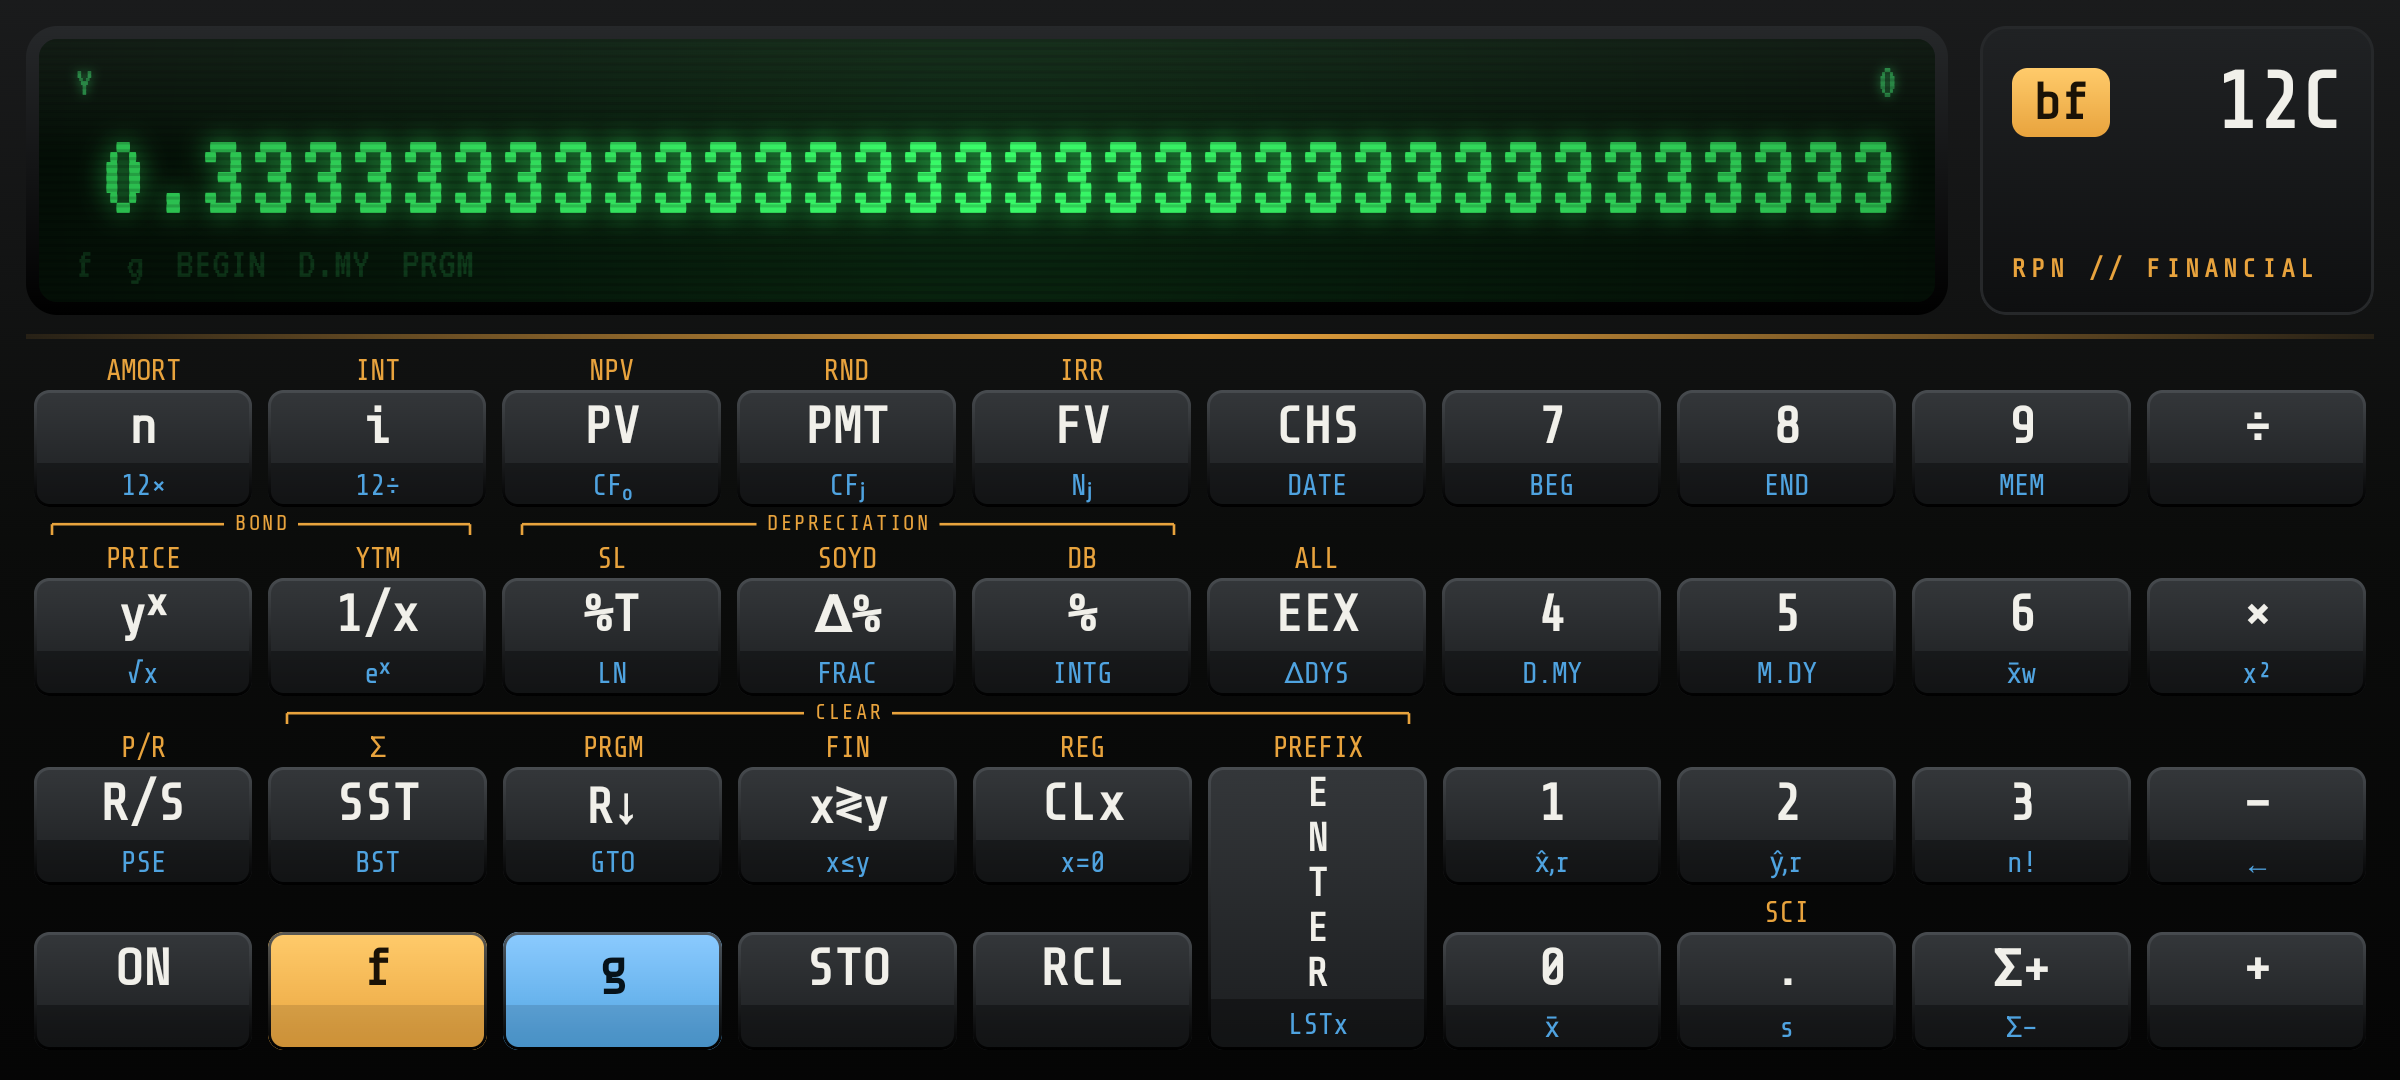
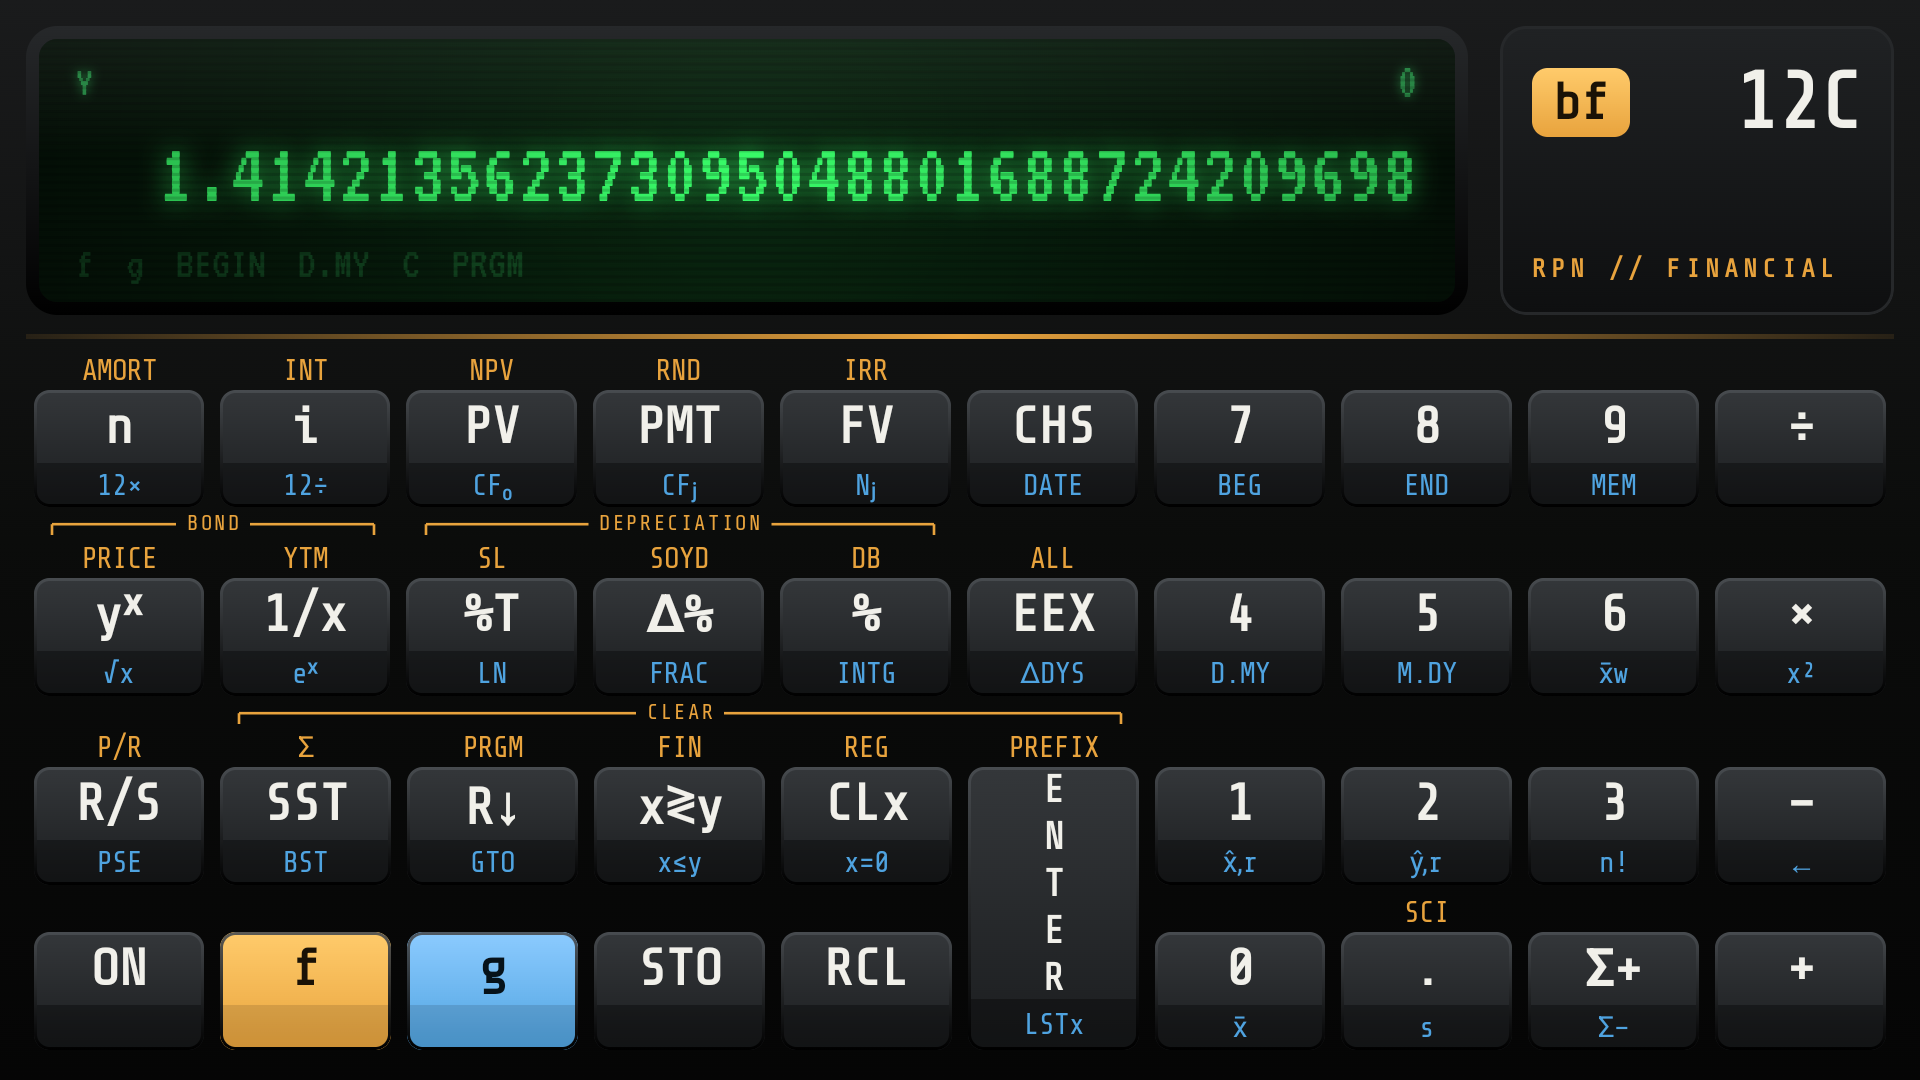
Recapture every store and README screenshot from the real app
tools/screenshots/shoot.py drives the installed debug build on an
emulator: it sets an exact 9:16 screen at each class's density, types
each scene on the calculator's own keys (found by their TalkBack
labels) and writes 24-bit PNGs.

- Phone (1080x1920 / 1920x1080, 420 dpi): a mortgage payment with its
  full-precision line, all 34 digits of the square root of 2, the f
  shift over an IRR, a sales-tax program listing in ICE, days until
  Christmas in P3 amber, the ON menu, and the 12C LCD.
- 7-inch (1224x2176 / 2176x1224, 320 dpi) and 10-inch (1620x2880 /
  2880x1620, 320 dpi) sets, four each, at real tablet window sizes so
  the tablet printing shows. They replace the deleted copies of the
  phone shots.
- docs/screenshots follow the phone set, plus a tablet shot.

AGENTS.md documents the command.

diff --git a/tools/screenshots/shoot.py b/tools/screenshots/shoot.py
@@ -1,0 +1,248 @@
+#!/usr/bin/env python3
+"""Captures the Play and README screenshots from the real app on an emulator.
+
+    ./gradlew assembleDebug
+    tools/screenshots/shoot.py SERIAL phone|tab7|tab10
+
+Boot an API 37 emulator first (see "Visual checks" in AGENTS.md). Any AVD
+without a display cutout works for every class, since the script sets the
+screen size and density itself; a cutout pads one side of landscape. Needs
+adb and ImageMagick.
+
+The script installs the debug APK, sizes the screen to an exact 9:16 at a
+real density for that class, types each scene on the calculator's own keys
+(found through their TalkBack labels) and writes 24-bit PNGs into
+fastlane/metadata/android/en-US/images/. `phone` and `tab10` also refresh
+the README shots in docs/screenshots/. It puts the screen size, density and
+rotation back when it is done.
+"""
+import os
+import re
+import shutil
+import subprocess
+import sys
+import time
+from pathlib import Path
+
+REPO = Path(__file__).resolve().parents[2]
+PKG = "com.bradflaugher.bf12c.debug"
+ACTIVITY = f"{PKG}/com.bradflaugher.bf12c.MainActivity"
+IMAGES = REPO / "fastlane/metadata/android/en-US/images"
+DOCS = REPO / "docs/screenshots"
+MAGICK = shutil.which("magick") or shutil.which("convert") or sys.exit("needs ImageMagick")
+ADB = shutil.which("adb") or os.path.join(
+    os.environ.get("ANDROID_HOME", os.path.expanduser("~/Android/Sdk")), "platform-tools", "adb"
+)
+
+# Portrait size (w x h, exactly 9:16) and density per Play category. The
+# density keeps each class's real window size in dp, so tablets get the
+# tablet layout: ~411dp phone, ~612dp 7-inch, 810dp 10-inch.
+DEVICES = {
+    "phone": ((1080, 1920), 420, IMAGES / "phoneScreenshots"),
+    "tab7": ((1224, 2176), 320, IMAGES / "sevenInchScreenshots"),
+    "tab10": ((1620, 2880), 320, IMAGES / "tenInchScreenshots"),
+}
+
+# The first word group of each key's TalkBack label (Key.spoken).
+TOKENS = {
+    "n": "n", "i": "i", "PV": "PV", "PMT": "PMT", "FV": "FV", "CHS": "change sign",
+    "/": "divide", "yx": "y to the x", "1/x": "reciprocal", "%T": "percent of total",
+    "D%": "percent change", "%": "percent", "EEX": "enter exponent", "*": "times",
+    "RS": "run stop", "SST": "single step", "RDN": "roll down", "SWAP": "x exchange y",
+    "CLX": "clear x", "ENTER": "enter", "-": "minus", "ON": "menu", "f": "f", "g": "g",
+    "STO": "store", "RCL": "recall", ".": "decimal point", "S+": "sigma plus", "+": "plus",
+}
+
+
+class Device:
+    def __init__(self, serial):
+        self.serial = serial
+        self.keys = {}
+
+    def adb(self, *args, capture=False):
+        cmd = [ADB, "-s", self.serial, *args]
+        if capture:
+            return subprocess.run(cmd, check=True, capture_output=True).stdout
+        subprocess.run(cmd, check=True, stdout=subprocess.DEVNULL)
+
+    def sh(self, *args):
+        self.adb("shell", *args)
+
+    def nodes(self):
+        self.sh("uiautomator", "dump", "/sdcard/bf12c-ui.xml")
+        xml = self.adb("shell", "cat", "/sdcard/bf12c-ui.xml", capture=True).decode()
+        for node in re.findall(r"<node [^>]*>", xml):
+            desc = re.search(r'content-desc="([^"]*)"', node).group(1)
+            text = re.search(r' text="([^"]*)"', node).group(1)
+            x1, y1, x2, y2 = map(int, re.search(r'bounds="\[(\d+),(\d+)\]\[(\d+),(\d+)\]"', node).groups())
+            yield desc, text, ((x1 + x2) // 2, (y1 + y2) // 2)
+
+    def map_keys(self):
+        wanted = set(TOKENS.values()) | {str(d) for d in range(10)}
+        for _ in range(15):
+            self.keys = {desc.split(",")[0]: center for desc, _, center in self.nodes() if desc}
+            missing = wanted - self.keys.keys()
+            if not missing:
+                return
+            time.sleep(1)
+        sys.exit(f"keys not found on screen: {sorted(missing)}")
+
+    def tap(self, xy):
+        self.sh("input", "tap", str(xy[0]), str(xy[1]))
+
+    def type(self, script):
+        """Presses [script], in the engine tests' keystroke DSL, on the on-screen keys."""
+        for token in script.split():
+            if token in TOKENS:
+                self.tap(self.keys[TOKENS[token]])
+            else:
+                for c in token:
+                    self.tap(self.keys["decimal point" if c == "." else c])
+        time.sleep(1.0)
+
+    def tap_text(self, pattern):
+        for _, text, center in self.nodes():
+            if re.fullmatch(pattern, text.strip()):
+                self.tap(center)
+                time.sleep(0.8)
+                return
+        sys.exit(f"no on-screen text matches {pattern}")
+
+    def rotate(self, landscape):
+        self.sh("settings", "put", "system", "accelerometer_rotation", "0")
+        self.sh("settings", "put", "system", "user_rotation", "1" if landscape else "0")
+        time.sleep(2.5)
+        self.map_keys()
+
+    def fresh(self, landscape, phosphor=None):
+        """A clean calculator: no stack, registers or program left from the last scene."""
+        self.sh("pm", "clear", PKG)
+        self.sh("am", "start", "-W", "-n", ACTIVITY)
+        self.rotate(landscape)
+        # The boot banner types itself out first.
+        time.sleep(1.5)
+        if phosphor:
+            self.type("ON")
+            self.tap_text(r"\[?" + re.escape(phosphor) + r"\]?")
+            self.tap_text(r"EXIT")
+            self.map_keys()
+
+    def shot(self, path):
+        time.sleep(1.2)
+        path.parent.mkdir(parents=True, exist_ok=True)
+        # Play wants 24-bit PNGs; screencap writes RGBA.
+        subprocess.run(
+            [MAGICK, "png:-", "-alpha", "off", f"PNG24:{path}"],
+            input=self.adb("exec-out", "screencap", "-p", capture=True),
+            check=True,
+        )
+        print(path.relative_to(REPO))
+
+
+def demo_status_bar(d):
+    # Landscape hides the bars; skip the one-time "Viewing full screen" hint.
+    d.sh("settings", "put", "secure", "immersive_mode_confirmations", "confirmed")
+    d.sh("settings", "put", "global", "sysui_demo_allowed", "1")
+
+    def demo(*extra):
+        d.sh("am", "broadcast", "-a", "com.android.systemui.demo", *extra)
+
+    demo("-e", "command", "enter")
+    demo("-e", "command", "clock", "-e", "hhmm", "0912")
+    demo("-e", "command", "battery", "-e", "level", "100", "-e", "plugged", "false")
+    demo("-e", "command", "network", "-e", "wifi", "show", "-e", "level", "4")
+    demo("-e", "command", "network", "-e", "mobile", "hide")
+    demo("-e", "command", "notifications", "-e", "visible", "false")
+
+
+# The scenes: realistic work, typed the way a person would.
+MORTGAGE = "f 2 30 g n 6.5 g i 350000 PV 0 FV PMT"  # 30-year loan: payment -2,212.24
+ROOT_TWO = "f EEX 2 g yx"  # all 34 digits of the square root of 2
+IRR = "f 2 25000 CHS g PV 6000 g PMT 8000 g PMT 9000 g PMT 7500 g PMT f FV"  # IRR 8.12 %
+TAX_PROGRAM = "f RS f RDN ENTER 8.25 % + g RDN 0 0"  # price plus 8.25 % sales tax
+DAYS = "f 0 9.292026 ENTER 12.252026 g EEX"  # days until Christmas
+
+
+def phone(d, out):
+    d.fresh(landscape=False)
+    d.type(MORTGAGE)
+    d.shot(out / "1_portrait.png")
+
+    d.fresh(landscape=True)
+    d.type(ROOT_TWO)
+    d.shot(out / "2_landscape.png")
+
+    d.fresh(landscape=True)
+    d.type(IRR + " f")
+    d.shot(out / "3_f-shift.png")
+
+    d.fresh(landscape=False, phosphor="ICE")
+    d.type(TAX_PROGRAM)
+    d.shot(out / "4_program.png")
+
+    d.fresh(landscape=True, phosphor="P3 AMBER")
+    d.type(DAYS)
+    d.shot(out / "5_amber.png")
+
+    d.fresh(landscape=False)
+    d.type(MORTGAGE + " ON")
+    d.shot(out / "6_menu.png")
+
+    d.fresh(landscape=True, phosphor="12C LCD")
+    d.type(IRR)
+    d.shot(out / "7_lcd.png")
+
+
+def tablet(d, out):
+    d.fresh(landscape=True)
+    d.type(MORTGAGE)
+    d.shot(out / "1_landscape.png")
+
+    d.fresh(landscape=False)
+    d.type(IRR)
+    d.shot(out / "2_portrait.png")
+
+    d.fresh(landscape=True, phosphor="P3 AMBER")
+    d.type(ROOT_TWO + " f")
+    d.shot(out / "3_f-shift.png")
+
+    d.fresh(landscape=False)
+    d.type(DAYS + " ON")
+    d.shot(out / "4_menu.png")
+
+
+def main():
+    if len(sys.argv) != 3 or sys.argv[2] not in DEVICES:
+        sys.exit(__doc__)
+    d = Device(sys.argv[1])
+    (w, h), density, out = DEVICES[sys.argv[2]]
+    apk = REPO / "app/build/outputs/apk/debug/app-debug.apk"
+    d.adb("install", "-r", str(apk))
+    # wm size is in the display's natural orientation; a tablet may be landscape-first.
+    natural = d.adb("shell", "wm", "size", capture=True).decode()
+    pw, ph = map(int, re.search(r"Physical size: (\d+)x(\d+)", natural).groups())
+    d.sh("wm", "size", f"{h}x{w}" if pw > ph else f"{w}x{h}")
+    d.sh("wm", "density", str(density))
+    demo_status_bar(d)
+    try:
+        for old in out.glob("*.png"):
+            old.unlink()
+        (phone if sys.argv[2] == "phone" else tablet)(d, out)
+    finally:
+        d.sh("am", "broadcast", "-a", "com.android.systemui.demo", "-e", "command", "exit")
+        d.sh("wm", "size", "reset")
+        d.sh("wm", "density", "reset")
+        d.sh("settings", "put", "system", "accelerometer_rotation", "1")
+    if sys.argv[2] == "phone":
+        for name, src in {
+            "portrait.png": "1_portrait.png", "landscape.png": "2_landscape.png",
+            "f-shift.png": "3_f-shift.png", "program.png": "4_program.png", "amber.png": "5_amber.png",
+            "menu.png": "6_menu.png",
+        }.items():
+            (DOCS / name).write_bytes((out / src).read_bytes())
+    if sys.argv[2] == "tab10":
+        (DOCS / "tablet.png").write_bytes((out / "1_landscape.png").read_bytes())
+
+
+if __name__ == "__main__":
+    main()

diff --git a/AGENTS.md b/AGENTS.md
@@ -59,6 +59,8 @@ by Dependabot.
   and `InvariantsTest` (enforces the invariants below).
 - `tools/icon/gen_icon.py` — generates the adaptive launcher icon
   (`res/drawable/ic_launcher_*.xml`). Edit the script, not the XML.
+- `tools/screenshots/shoot.py` — captures the Play and README screenshots
+  from the real app on an emulator (see Visual checks).
 
 ## Behavioral rules
 
@@ -117,3 +119,8 @@ unzip `emulator-linux_x64-*.zip` into `.emu/sdk/` and the
 `.emu/`. Drive it with `adb shell input tap x y` and capture with
 `adb exec-out screencap -p > shot.png`. Look at both orientations
 (`adb shell settings put system user_rotation 0|1`).
+
+The store and README screenshots come from `tools/screenshots/shoot.py
+SERIAL phone|tab7|tab10` on such an emulator (after `./gradlew
+assembleDebug`); rerun all three after a visible UI change and look at
+every PNG it writes. Use an AVD without a display cutout.
